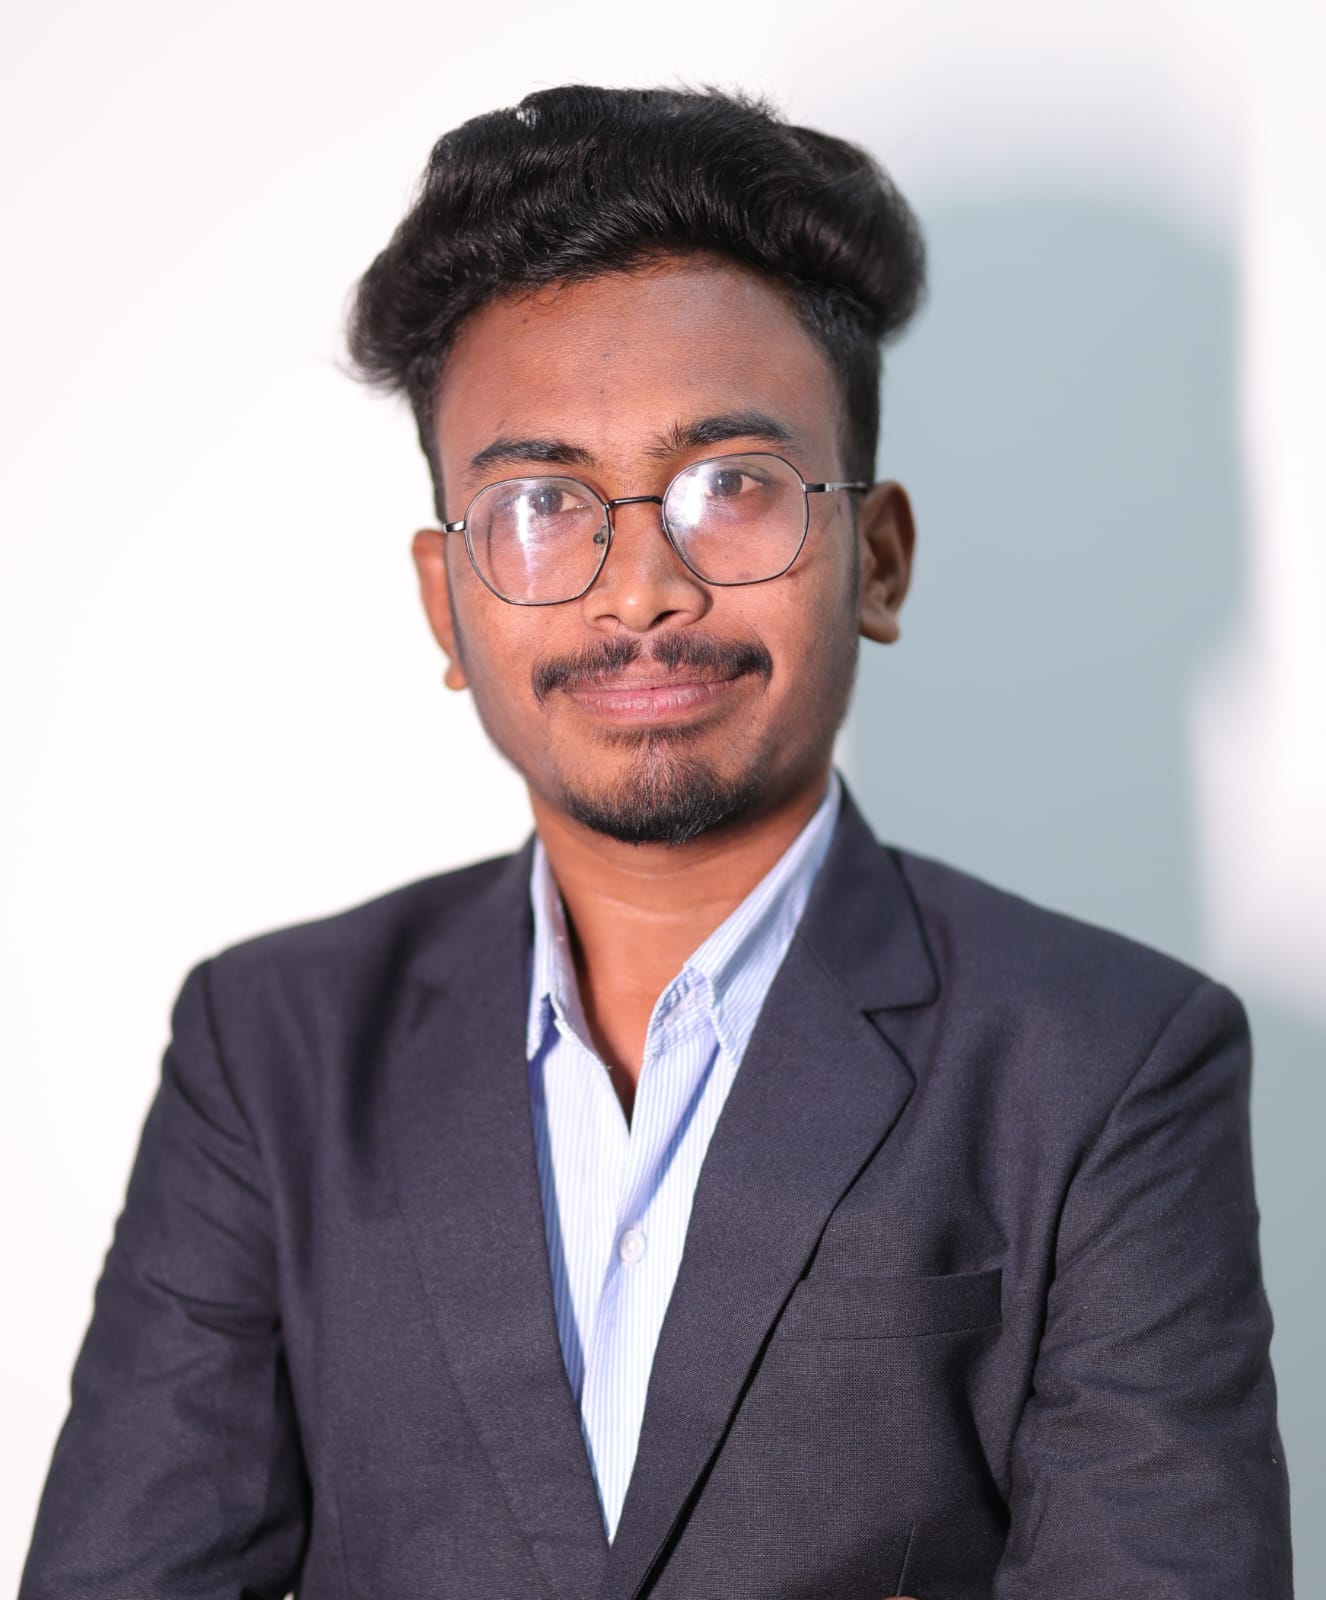
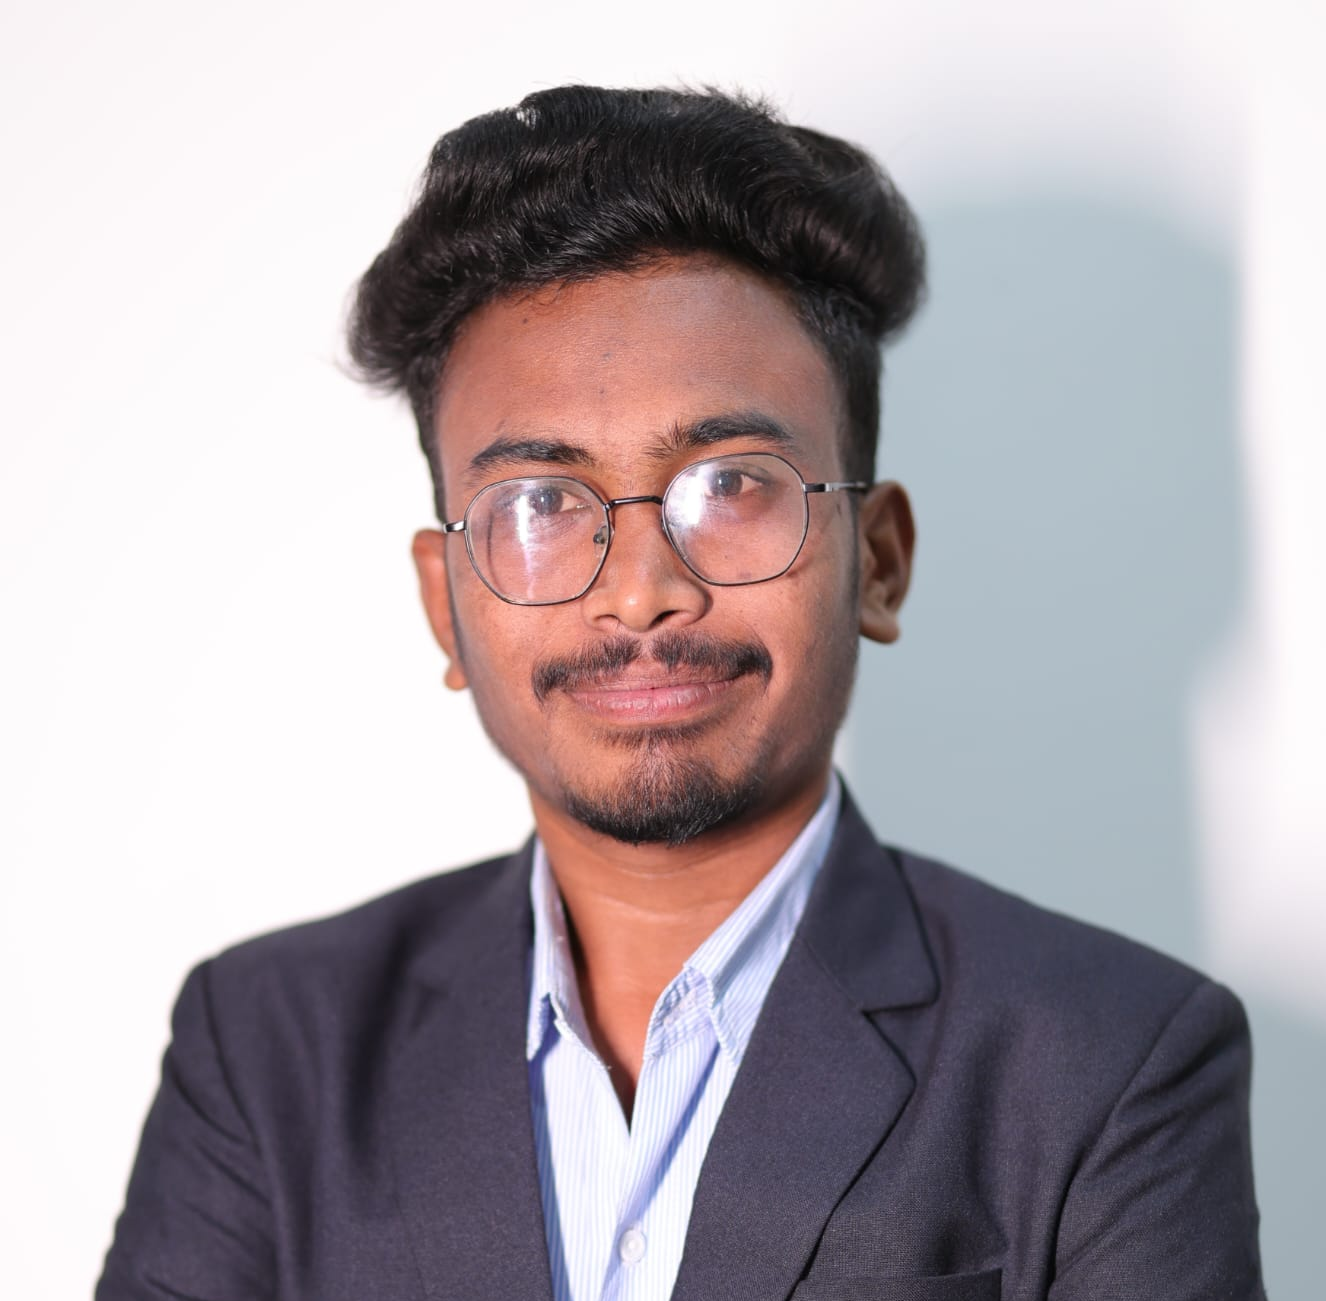
Team members img fixed

diff --git a/assets/css/templatemo-softy-pinko.css b/assets/css/templatemo-softy-pinko.css
@@ -1110,7 +1110,7 @@ parallax & home seperator
 team
 --------------------------------------------- 
 /* TEAM SECTION */
-.blog-post-thumb {
+.blog-post-thumb1 {
   background: #fff;
   box-shadow: 0 2px 48px rgba(0, 0, 0, 0.1);
   border-radius: 20px;
@@ -1119,21 +1119,28 @@ team
   padding: 25px 20px;
   text-align: center;
   transition: transform 0.3s ease;
+  width: 100%;
+  height: 50vh;
+  display: flex;
+  flex-direction: column;
+  justify-content: center;
+  align-items: center;
 }
 
-.blog-post-thumb:hover {
+.blog-post-thumb1:hover {
   transform: translateY(-10px);
 }
 
-.blog-post-thumb .img {
-  width: 120px;
-  height: 120px;
+.blog-post-thumb1 .img {
+  width: 200px;
+  height: 200px;
   margin: 0 auto 20px auto;
   border-radius: 50%;
   overflow: hidden;
+  border: 1px solid #000000; /* Add border to the image container */
 }
 
-.blog-post-thumb .img img {
+.blog-post-thumb1 .img img {
   width: 100%;
   height: 100%;
   object-fit: cover; /* ensures full coverage without distortion */
@@ -1141,30 +1148,30 @@ team
   border-radius: 20%; /* Make the image itself circular */
 }
 
-.blog-post-thumb h3 {
+.blog-post-thumb1 h3 {
   font-size: 20px;
   font-weight: 600;
   margin-bottom: 5px;
   color: #1e1e1e;
 }
 
-.blog-post-thumb .text {
+.blog-post-thumb1 .text {
   font-size: 15px;
   color: #777;
 }
 
-.blog-post-thumb .social {
+.blog-post-thumb1 .social {
   margin-top: 10px;
 }
 
-.blog-post-thumb .social a {
+.blog-post-thumb1 .social a {
   color: #4E47DE;
   font-size: 18px;
   margin: 0 8px;
   transition: color 0.3s ease;
 }
 
-.blog-post-thumb .social a:hover {
+.blog-post-thumb1 .social a:hover {
   color: #ff589e;
 }
 

diff --git a/index.html b/index.html
@@ -500,7 +500,7 @@ https://templatemo.com/tm-535-softy-pinko
         <div class="row">
             <!-- Team Member 1 -->
             <div class="col-lg-4 col-md-6 col-sm-12">
-                <div class="blog-post-thumb">
+                <div class="blog-post-thumb1">
                     <div class="img">
                         <img src="assets/images/founder.png" alt="Team Member 1">
                     </div>
@@ -518,7 +518,7 @@ https://templatemo.com/tm-535-softy-pinko
 
             <!-- Team Member 2 -->
             <div class="col-lg-4 col-md-6 col-sm-12">
-                <div class="blog-post-thumb">
+                <div class="blog-post-thumb1">
                     <div class="img">
                         <img src="assets/images/team-member-2.jpg" alt="Team Member 2">
                     </div>
@@ -535,9 +535,9 @@ https://templatemo.com/tm-535-softy-pinko
 
             <!-- Team Member 3 -->
             <div class="col-lg-4 col-md-6 col-sm-12">
-                <div class="blog-post-thumb">
+                <div class="blog-post-thumb1">
                     <div class="img">
-                        <img src="assets/images/team-member-3.jpg" alt="Team Member 3">
+                        <img src="assets/images/OmDhage.jpg" alt="Team Member 3">
                     </div>
                     <div class="blog-content text-center">
                         <h3>Om Dhage</h3>
